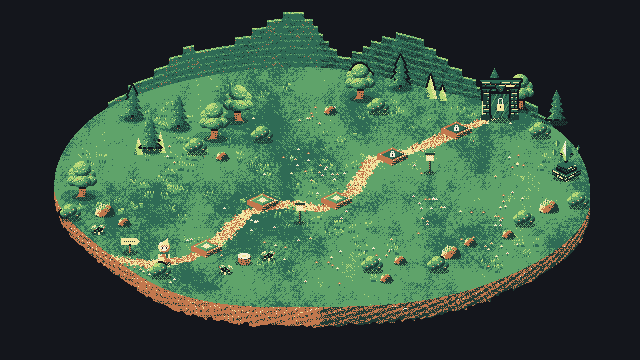
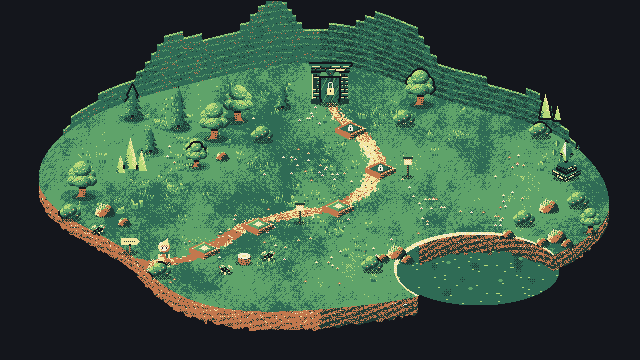
Meadow: size variants, lumpy island with water cove, mountain wall, worn path, gate at path end
Claude-Session: https://claude.ai/code/session_01Pmx9dUKcC1MESfPt7vEJfv

diff --git a/tools/art/gen_meadow.py b/tools/art/gen_meadow.py
@@ -22,13 +22,16 @@ def noise1(t, s):
 def inside(x, y):
     dx, dy = (x + .5 - CX) / RX, (y + .5 - CY) / RY
     th = math.atan2(dy, dx); r = math.hypot(dx, dy)
-    return r <= 1 + noise1(th, 3)
+    n = noise1(th, 3) * 1.6 + 0.05 * math.sin(th * 4 + 1)
+    if (x - 478) ** 2 / 82 ** 2 + (y - 270) ** 2 / 36 ** 2 < 1: return False   # front-right cove (water)
+    return r <= 1 + n
+WATER = (lambda x, y: (x - 478) ** 2 / 82 ** 2 + (y - 270) ** 2 / 36 ** 2 < 1)
 mask = np.zeros((H, W), bool)
 for y in range(H):
     for x in range(W): mask[y, x] = inside(x, y)
 
 # ---------- path (polyline in screen space, wobbly) ----------
-PATH = [(112, 258), (150, 264), (190, 258), (222, 236), (248, 212), (284, 204), (322, 208), (352, 190), (372, 160), (410, 150), (452, 134), (488, 118)]
+PATH = [(112, 258), (150, 264), (190, 258), (222, 240), (252, 222), (290, 214), (334, 208), (368, 188), (378, 160), (362, 136), (338, 118), (330, 104)]
 def seg_dist(px, py):
     best = 1e9
     for (x0, y0), (x1, y1) in zip(PATH, PATH[1:]):
@@ -49,8 +52,10 @@ for y in range(H):
     for x in range(W):
         if not mask[y, x]: continue
         if on_path(x, y):
-            l = .32 + (hsh(x, y, 4) - .5) * .5 + (vnoise(x, y, 2, 9) - .5) * .3
-            c.put(x, y, dith(PATHR, l, x, y), 1)
+            worn = vnoise(x, y, 14, 26)
+            l = .30 + (hsh(x, y, 4) - .5) * .5 + (vnoise(x, y, 2, 9) - .5) * .3 + (worn - .5) * .55
+            if abs(seg_dist(x, y) - 3.2) < .9 and hsh(x >> 2, y >> 1, 6) > .35: l -= .25      # wheel ruts
+            c.put(x, y, dith(PATHR if worn > .38 else [6, 6, 5, 7], l, x, y), 1)
         else:
             l = .33 + (vnoise(x, y, 5, 40) - .5) * .5 + (vnoise(x, y, 6, 11) - .5) * .32 + (hsh(x >> 1, y >> 1, 3) - .5) * .22 + (hsh(x, y, 4) - .5) * .12
             c.put(x, y, dith(GRASS, l, x, y), 1)
@@ -92,10 +97,10 @@ for x in range(W):
     if len(ys): top[x] = ys.min()
 cl = c.new(); STEP = 7
 def cliff_h(x):
-    t = (x - 90) / 470.0
+    t = (x - 60) / 520.0
     if t < 0 or t > 1: return 0
-    env = math.sin(t * math.pi) ** .7
-    return (28 + 26 * vnoise(x, 5, 7, 38) + 10 * math.sin(x * .05)) * env
+    env = math.sin(t * math.pi) ** .45
+    return (34 + 36 * vnoise(x, 5, 7, 34) + 10 * math.sin(x * .05)) * env
 for x, yt in top.items():
     h = int(cliff_h(x) // STEP) * STEP
     if h <= 0: continue
@@ -115,18 +120,54 @@ def crystal(cx, base, hgt, w):
     cid = c.new()
     c.poly([(cx - w, base), (cx - w // 2, base - hgt * .55), (cx, base - hgt), (cx + w // 2, base - hgt * .6), (cx + w, base)],
            lambda x, y: dith([2, 4, 5, 7], .25 + (cx - x) * .05 * -1 + (base - y) / hgt * .35 + (hsh(x, y, 8) - .5) * .2, x, y), cid)
-for (cx_, b_, h_, w_) in [(150, 150, 30, 7), (160, 152, 20, 5), (138, 154, 16, 4), (430, 98, 24, 6), (442, 100, 15, 4)]:
+for (cx_, b_, h_, w_) in [(130, 168, 30, 7), (141, 170, 20, 5), (120, 172, 16, 4), (545, 118, 26, 6), (557, 120, 16, 4)]:
     crystal(cx_, b_, h_, w_)
+
+
+# ---------- water cove: deep teal with stepped shimmer, sand shore ----------
+wid = c.new()
+for y in range(H):
+    for x in range(W):
+        if WATER(x, y) and c.i[y, x] < 0 or (WATER(x, y) and c.o[y, x] == 1):
+            l = .30 + (y - 240) / 160 * .15 + (vnoise(x, y, 31, 14) - .5) * .35
+            v = dith([1, 2, 2, 3], l, x, y)
+            if hsh(x >> 1, y, 40) > .97 and (y & 1): v = 4
+            c.put(x, y, v, 1)
+for y in range(H):
+    for x in range(W):
+        if mask[y, x] and c.o[y, x] == 1 and any(WATER(x + dx, y + dy) for dx, dy in ((2, 0), (-2, 0), (0, 2), (0, -2), (3, 3), (-3, -3))):
+            c.put(x, y, dith([5, 7], .45 + (hsh(x, y, 41) - .5) * .5, x, y), 1)
+for (lx, ly) in [(448, 262), (500, 280), (520, 258), (470, 288)]:      # lily pads
+    for dx in range(-2, 3):
+        for dy in range(-1, 2):
+            if WATER(lx + dx, ly + dy) and abs(dx) + abs(dy) * 2 < 4: c.put(lx + dx, ly + dy, 3, 1)
 
 # ---------- helpers: sprites (tile ground patched out) ----------
 G.tile_ground = lambda *a, **k: None
 placed = []; layer_shadow = []; layer_body = []
-def render(fn, flip=False):
+def stretch(i, o):      # taller conifer: repeat foliage rows, keep base anchored
+    ys = []
+    for y in range(110):
+        ys.append(y)
+        if y < 74 and y % 4 == 0: ys.append(y)
+    extra = sum(1 for y in ys if y < 80) - 80
+    ys = ys[extra: extra + 110] if len(ys) >= 110 + extra else ys
+    ys = (ys + [109] * 110)[:110]
+    return i[ys], o[ys]
+def shrink(f):
+    def tf(i, o):
+        yy, xx = np.mgrid[0:110, 0:110]
+        sy = np.clip((80 + (yy - 80) / f).round().astype(int), 0, 109); sx = np.clip((55 + (xx - 55) / f).round().astype(int), 0, 109)
+        return i[sy, sx], o[sy, sx]
+    return tf
+TF = dict(pine_tall=stretch, pine_small=shrink(.72), oak_small=shrink(.7))
+def render(fn, flip=False, tf=None):
     t = Cv(110, 110); fn(t, 55, 80); i, o = t.i, t.o
+    if tf: i, o = tf(i, o)
     if flip: i, o = i[:, ::-1], o[:, ::-1]
     return i, o
 def place(name, fn, x, y, flip=False, **meta):
-    i, o = render(fn, flip); k = len(placed) + 1
+    i, o = render(fn, flip, TF.get(name)); k = len(placed) + 1
     placed.append(dict(name=name, x=x, y=y, flip=flip, **meta))
     for yy in range(110):
         for xx in range(110):
@@ -156,36 +197,36 @@ S = []   # (kind, x, y, flip)
 def add(kind, x, y, flip=False, **m): S.append((kind, x, y, flip, m))
 
 # back-left grove: overlapping trunks and canopies, different depths
-add('pine', 178, 128); add('oak', 214, 138); add('pine', 150, 150); add('oak', 238, 120, True); add('bush', 196, 152); add('bush', 262, 140)
+add('pine_tall', 178, 128); add('oak', 214, 138); add('oak_small', 196, 166); add('pine_small', 150, 152); add('oak', 238, 120, True); add('bush', 196, 152); add('bush', 262, 140)
 add('pine', 132, 118) ; add('rock_s', 222, 158)
 # back-right tall pair framing the gate area
-add('oak', 520, 108); add('pine', 556, 122); add('bush', 540, 136); add('pine', 494, 100); add('rock_s', 566, 154)
+add('oak', 520, 108); add('pine', 556, 122); add('bush', 540, 136); add('pine_tall', 494, 108); add('rock_s', 566, 154)
 # mid-back, loose singles
-add('oak', 360, 98); add('pine', 400, 88); add('bush', 378, 112); add('rock_s', 330, 112)
+add('oak', 420, 104); add('pine_tall', 452, 98); add('bush', 404, 124); add('pine_small', 282, 108)
 # left edge
 add('oak', 82, 196); add('bush', 70, 218); add('rock_big', 104, 214); add('rock_s', 124, 224); add('mush', 98, 232)
 # right edge / foreground
 add('rock_big', 548, 210); add('bush', 524, 224); add('rock_s', 508, 236); add('bush', 578, 206)
 # foreground clutter, low so it never hides the path or pads
-add('stump', 244, 262); add('mush', 268, 258); add('mush', 226, 272, True); add('bush', 372, 270); add('rock_s', 400, 262); add('rock_s', 386, 280)
-add('bush', 160, 276); add('rock_big', 450, 256); add('rock_s', 470, 244); add('bush', 438, 270)
+add('stump', 244, 262); add('mush', 268, 258); add('mush', 226, 272, True); add('bush', 372, 270); add('rock_cl', 396, 256)
+add('bush', 160, 276); add('oak_small', 590, 232); add('rock_cl', 556, 240)
 
 # pads (5 for zone 1), loosely arranged along the path, each offset off the line
-PADS = [(206, 246, 'ready'), (262, 200, 'ready'), (336, 198, 'ready'), (392, 154, 'locked'), (456, 128, 'locked')]
+PADS = [(204, 248, 'ready'), (258, 224, 'ready'), (338, 206, 'ready'), (380, 168, 'locked'), (350, 128, 'locked')]
 # landmarks
-add('sign', 130, 252); add('lantern', 300, 222); add('lantern', 430, 172)
-add('gate', 500, 104 + 12, False)      # at the path end
+add('sign', 130, 252); add('lantern', 300, 222); add('lantern', 408, 176)
+add('gate', 330, 100, False)      # far end of the path, centred against the cliff
 add('shrine', 566, 176)
 
 kinds = dict(
-    oak=G.tree_oak, pine=G.tree_pine, bush=G.bush, stump=G.stump, sign=G.signpost, lantern=G.lantern,
+    oak=G.tree_oak, pine=G.tree_pine, pine_tall=G.tree_pine, pine_small=G.tree_pine, oak_small=G.tree_oak, bush=G.bush, stump=G.stump, sign=G.signpost, lantern=G.lantern,
     rock_big=lambda t, x, y: G.rock(t, x, y, 'meadow', True), rock_s=lambda t, x, y: G.rock(t, x, y, 'meadow', False),
     mush=G.mushrooms, gate=lambda t, x, y: G.gate(t, x, y, 'meadow', False), shrine=lambda t, x, y: G.shrine(t, x, y, 'meadow', False))
 
 # shade pools under canopies (ground pass)
 for (k, x, y, fl, m) in S:
-    if k in ('oak', 'pine'):
-        r = 22 if k == 'oak' else 14
+    if k in ('oak', 'pine', 'pine_tall', 'oak_small', 'pine_small'):
+        r = 22 if k == 'oak' else 14 if k != 'oak_small' else 14
         for yy in range(y - 6, y + 9):
             for xx in range(x - r, x + r + 1):
                 if 0 <= xx < W and 0 <= yy < H and mask[yy, xx] and c.o[yy, xx] == 1 and ((xx - x) / r) ** 2 + ((yy - y) / (r * .38)) ** 2 < 1 and bay(xx, yy) < .55 and c.i[yy, xx] in (3, 4):
@@ -204,7 +245,11 @@ for _ in range(16): scatter_cluster(rnd.randint(90, 560), rnd.randint(110, 280),
 for (px, py, _) in PADS: scatter_cluster(px, py, 6, 24, 'tuft'); scatter_cluster(px + 6, py + 6, 4, 22, 'flower')
 
 # draw order: shadows (ground-level), decals, pads, then y-sorted bodies
-for (kind, x, y, fl, m) in S: place(kind, kinds[kind], x, y, fl)
+for (kind, x, y, fl, m) in S:
+    if not (0 <= x < W and 0 <= y < H and mask[y, x]): continue
+    if kind == 'rock_cl':
+        for dx, dy, k2 in ((0, 0, 'rock_big'), (-14, 4, 'rock_s'), (11, 5, 'rock_s')): place(k2, kinds[k2], x + dx, y + dy, fl)
+    else: place(kind, kinds[kind], x, y, fl)
 for (px, py, st) in PADS:
     place('pad_' + st, lambda t, x, y, s=st: G.pad(t, x, y, s, 'meadow'), px, py)
 # walker standing on the path near the start
